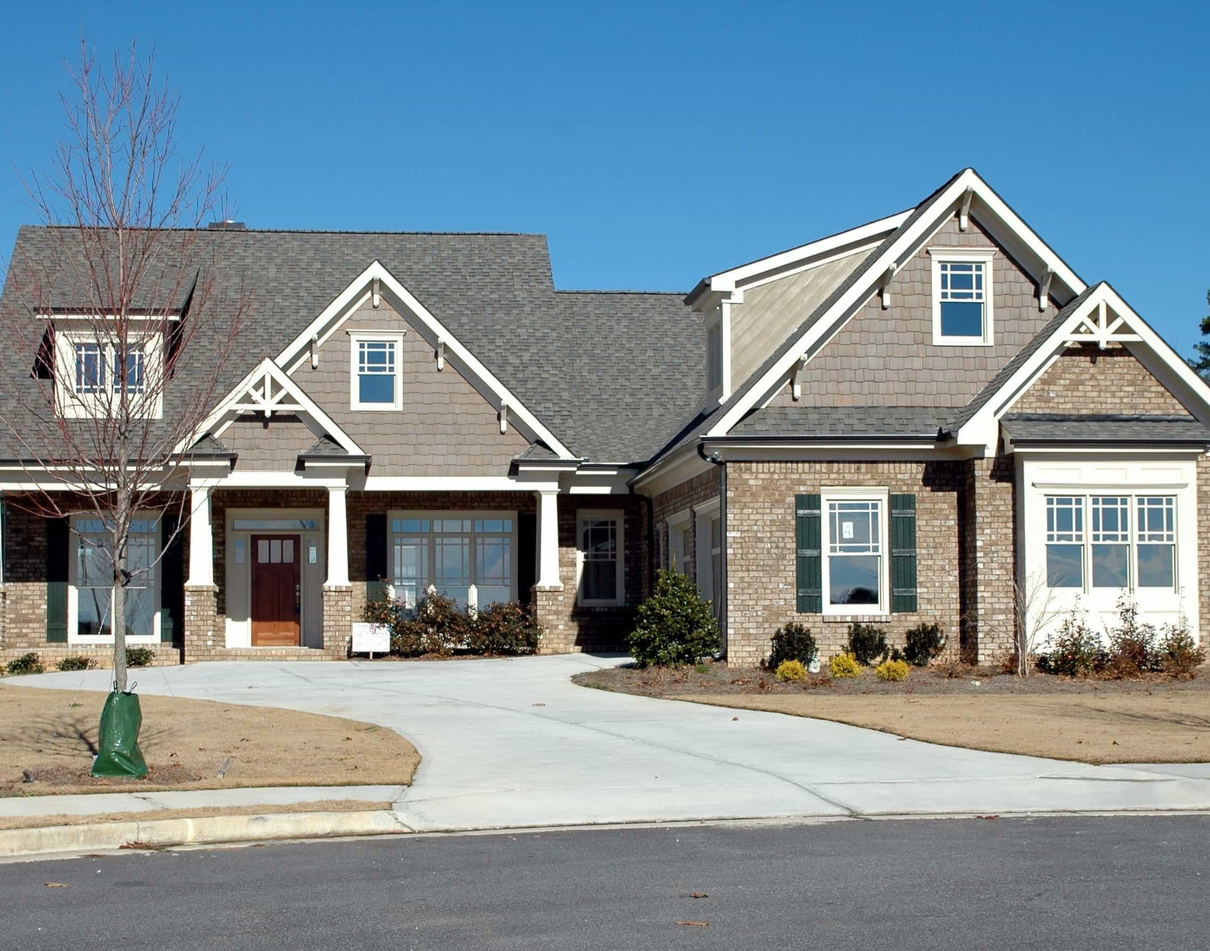
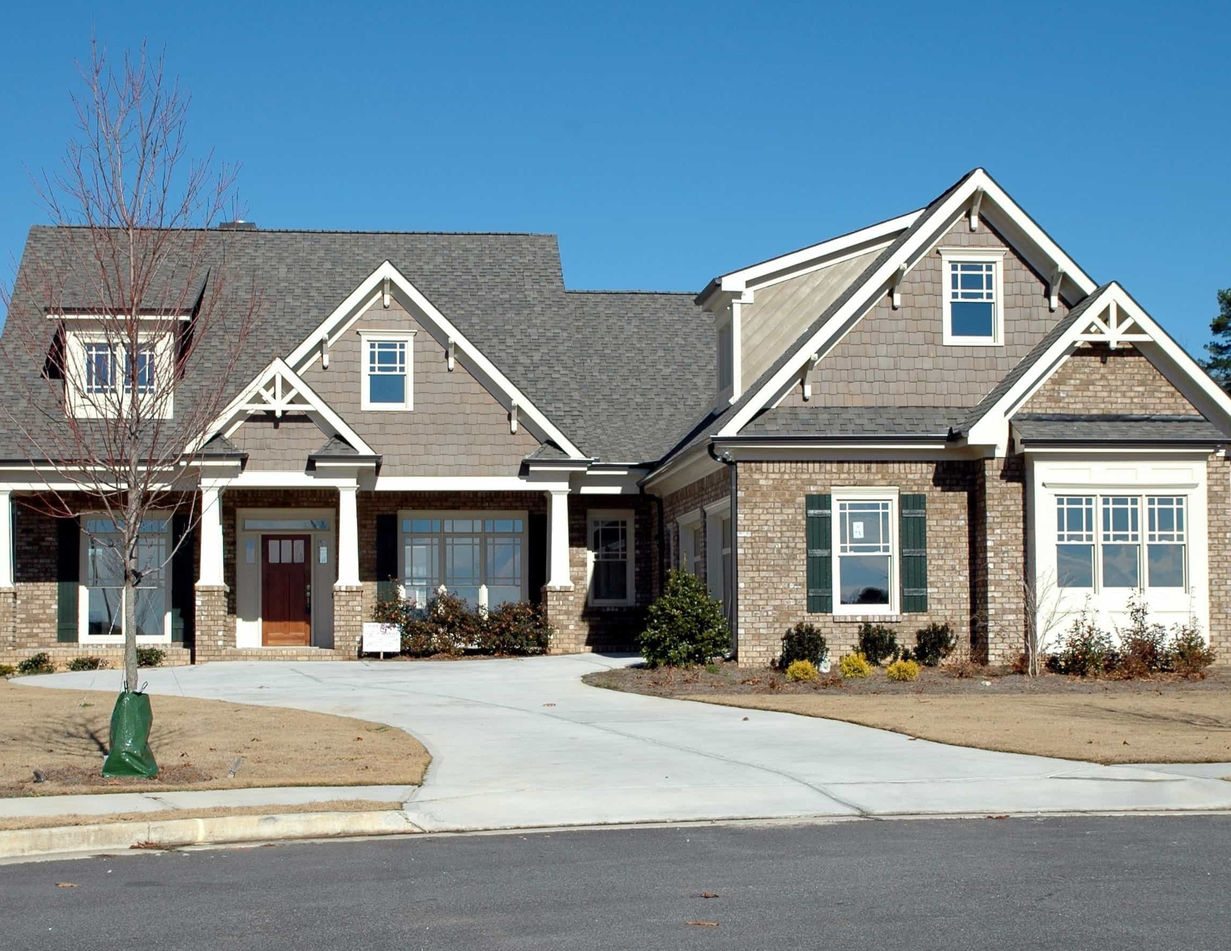
bla bla

diff --git a/urbRur.html b/urbRur.html
@@ -3,7 +3,7 @@
 <!-- thing lol -->
 <!-- eg side by side: towers chcikens vampire tyen suburb and then pastoral -->
 <!-- idyl lol :) just make a one such picture in Google doc copy paste :) -->
-<img src="634px-Thomas_van_Ypern_Pastoral_idyll.jpg"><img src="sub-crop.jpg" width="600">
+<img src="634px-Thomas_van_Ypern_Pastoral_idyll.jpg"><img src="sub-crop.jpg" width="620">
 
 <dl>the urban-rural happiness gradient  key writings:
 <dt><a href="https://rucore.libraries.rutgers.edu/rutgers-lib/52123/PDF/1/play/">City Life: Glorification, Desire, and the Unconscious Size Fetish</a>
